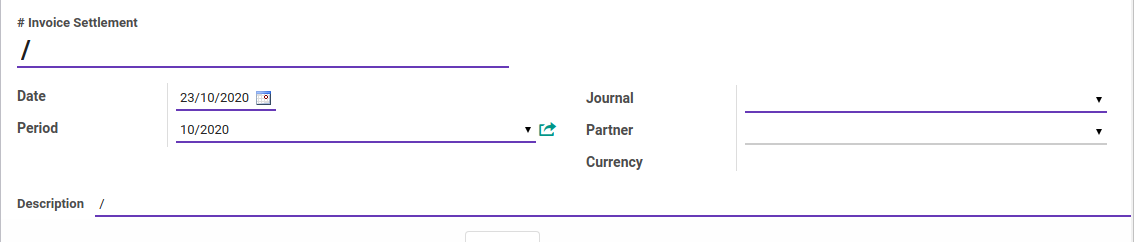
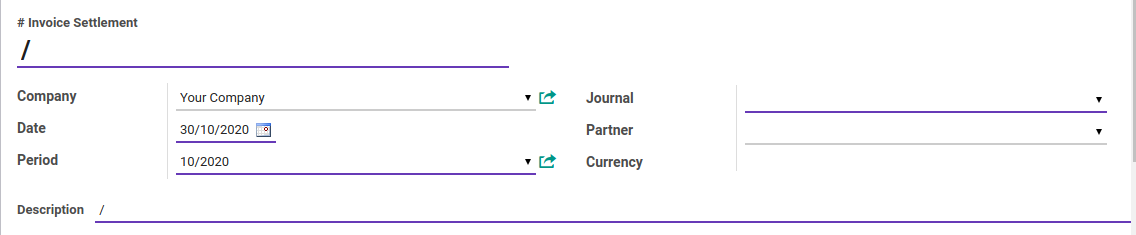
Invoice Settlement Revisi Daftar Isi Revisi Penjelasan tambah field-company Task Persetujuan Task Membatalkan Task Mengkonfirmasi Task Membuat Task Memodifikasi Task Menghapus Task Merestart Task Proforma Task Posting

diff --git a/src/transaksi/invoice-settlement/post.md b/src/transaksi/invoice-settlement/post.md
@@ -1,1 +1,52 @@
 # Post Invoice Settlement
+
+## A. INPUT
+
+* Data *invoice settlement* yang akan di-*post* harus memiliki status **Ready To Process**, atau **Proforma**.
+
+![](../../img/invoice-settlement/status-ready-to-process.png)
+
+![](../../img/invoice-settlement/status-proforma.png)
+
+* User yang akan memposting harus memiliki akses untuk memposting *invoice settlement*.
+
+## B. LANGKAH KERJA
+
+1. Buka menu **Accounting -> Settlement -> Invoice Settlement**. Abaikan jika sudah berada pada menu yang dimaksud.
+2. Buka data *invoice settlement* yang akan di-*posting*. Abaikan jika data sudah dibuka.
+3. Klik tombol **Post** pada bagian atas-kiri form. Pop-up form berjudul **Post Voucher** akan muncul.
+
+![](../../img/invoice-settlement/tombol-post.png)
+
+
+4. Isi **Date** pada pop-up form **Post Voucher**
+
+![](../../img/invoice-settlement/pop-up-post-voucher.png)
+
+5. Klik tombol **Post** pada bagian bawah-kiri pop-up form **Post Voucher**
+
+![](../../img/invoice-settlement/tombol-post-voucher.png)
+
+## C. OUTPUT
+
+* Status dari *invoice settlement* akan berubah menjadi **Posted**
+
+![](../../img/invoice-settlement/status-posted.png)
+
+* Penjurnalan *invoice settlement* akan secara otomatis dibuat. Penjurnalan dapat dilihat pada tab **Accounting Information**. Isian **Accounting Entry** akan berisi journal entry yang dihasilkan. Sementara di bawah isian **Accounting Entry** akan memperlihatkan journal item dari penjurnalan *invoice settlement*.
+
+![](../../img/invoice-settlement/hasil-penjurnalan.png)
+
+* Penjurnalan *invoice settlement* akan mengikuti pedoman sebagai berikut:
+
+    * n buah *journal item* akan terbentuk dengan ketentuan sebagai berikut:
+
+        * n sama dengan jumlah *debit line*.
+        * Akun yang digunakan sama dengan isian **Account** pada tiap *debit line*
+        * *Debit line* dengan isian **Amount** yang bernilai positif akan didebit sejumlah nilai **Amount In Company Currency At Voucher Date**. *Debit line* dengan isian **Amount** yang bernilai negatif akan dikredit sejumlah nilai **Amount In Company Currency At Voucher Date**.
+
+    * m buah *journal item* akan terbentuk dengan ketentuan sebagai berikut:
+
+        * m sama dengan jumlah *credit line*.
+        * Akun yang digunakan sama dengan isian **Account** pada tiap *credit line*
+        * *Credit line* dengan isian **Amount** yang bernilai positif akan dikredit sejumlah nilai **Amount In Company Currency At Voucher Date**. *Credit line* dengan isian **Amount** yang bernilai negatif akan didebit sejumlah nilai **Amount In Company Currency At Voucher Date**.

diff --git a/src/transaksi/invoice-settlement/memodifikasi.md b/src/transaksi/invoice-settlement/memodifikasi.md
@@ -1,1 +1,32 @@
 # Memodifikasi Invoice Settlement
+
+## A. INPUT
+
+* Data invoice settlement yang akan dimodifikasi harus memiliki status **Draft**.
+
+![](../../img/invoice-settlement/status-draft.png)
+
+## B. LANGKAH KERJA
+
+1. Buka menu **Accounting -> Settlement -> Invoice Settlement**. Abaikan jika sudah berada pada menu yang dimaksud.
+2. Buka data invoice settlement yang akan dimodifikasi. Abaikan jika data sudah dibuka.
+3. Klik tombol **Edit** pada bagian atas-kiri form.
+
+![](../../img/invoice-settlement/tombol-edit.png)
+
+4. Ubah **[# Invoice Settlement](./penjelasan.md#field-name)** jika dibutuhkan. Wajib diisi.
+5. Ubah dan sesuaikan **[Company](./penjelasan.md#field-company)** jika dibutuhkan. Hanya terlihat pada implementasi multi-company. Wajib diisi.
+6. Pilih dan sesuaikan **[Date](./penjelasan.md#field-date)** jika dibutuhkan. Wajib diisi.
+7. Biarkan isian **[Period](./penjelasan.md#field-period)**.
+8. Pilih dan sesuaikan **[Journal](./penjelasan.md#field-journal)** jika dibutuhkan. Wajib diisi.
+9. Pilih dan sesuaikan **[Partner](./penjelasan.md#field-partner)** jika dibutuhkan. Tidak wajib diisi.
+10. Isi dan sesuaikan **[Exchange Rate](./penjelasan.md#field-exchange-rate)**. Wajib diisi.
+11. <a name="langkah-11">Untuk</a> setiap *supplier invoice* yang akan di-*settle*, [import](./import-debit-line.md)/[modifikasi](./memodifikasi-debit-line.md)/[hapus](./menghapus-debit-line.md) debit lines. Ulangi langkah ini sampai **Debit Lines** sesuai dengan keinginan.
+12. <a name="langkah-12">Untuk</a> setiap *customer invoice* yang akan di-*settle*, [import](./import-credit-line.md)/[modifikasi](./memodifikasi-credit-line.md)/[hapus](./menghapus-credit-line.md) credit lines. Ulangi langkah ini sampai **Credit Lines** sesuai dengan keinginan.
+13. <a name="langkah-13">Klik</a> tombol **Save** pada bagian atas-kiri form.
+
+![](../../img/invoice-settlement/tombol-edit-save.png)
+
+## C. OUTPUT
+
+* Data invoice settlement akan berubah sesuai dengan perubahan yang dilakukan.

diff --git a/src/transaksi/invoice-settlement/membuat.md b/src/transaksi/invoice-settlement/membuat.md
@@ -1,1 +1,29 @@
 # Membuat Invoice Settlement
+
+## A. INPUT
+
+*(Tidak ada instruksi khusus)*
+
+## B. LANGKAH KERJA
+
+1. Buka menu **Accounting -> Settlement -> Invoice Settlement**
+2. Klik tombol **Create** pada bagian atas-kiri form.
+
+![](../../img/invoice-settlement/tombol-create.png)
+
+3. Ubah **[# Invoice Settlement](./penjelasan.md#field-name)** dengan penomeran yang dikehendaki. Biarkan berisi **/** apabila menghendaki penomeran otomatis.
+4. Ubah **[Company](./penjelasan.md#field-company)** jika dibutuhkan. Hanya terlihat pada implementasi multi-company. Wajib diisi.
+5. Pilih **[Date](./penjelasan.md#field-date)**. Wajib diisi.
+6. Biarkan isian **[Period](./penjelasan.md#field-period)**.
+7. Pilih **[Journal](./penjelasan.md#field-journal)**. Wajib diisi.
+8. Pilih **[Partner](./penjelasan.md#field-partner)** Tidak wajib diisi.
+9. Isi **[Exchange Rate](./penjelasan.md#field-exchange-rate)**. Wajib diisi.
+10. <a name="langkah-10">Untuk</a> setiap *supplier invoice* yang akan di-*settle*, [import](./import-debit-line.md)/[modifikasi](./memodifikasi-debit-line.md)/[hapus](./menghapus-debit-line.md) debit lines. Ulangi langkah ini sampai **Debit Lines** sesuai dengan keinginan.
+11. <a name="langkah-11">Untuk</a> setiap *customer invoice* yang akan di-*settle*, [import](./import-credit-line.md)/[modifikasi](./memodifikasi-credit-line.md)/[hapus](./menghapus-credit-line.md) credit lines. Ulangi langkah ini sampai **Credit Lines** sesuai dengan keinginan.
+12. <a name="langkah-12">Klik</a> tombol **Save** pada bagian atas-kiri form.
+
+![](../../img/invoice-settlement/tombol-save.png)
+
+## C. OUTPUT
+
+*(Tidak ada instruksi khusus)*

diff --git a/src/transaksi/invoice-settlement/batal.md b/src/transaksi/invoice-settlement/batal.md
@@ -1,1 +1,41 @@
 # Membatalkan Invoice Settlement
+
+## A. INPUT
+
+* Data *invoice settlement* yang akan dibatalkan dapat memiliki status **Draft**, atau **Waiting for Approval**, atau **Ready To Process**, atau **Proforma**, atau **Posted**
+
+![](../../img/invoice-settlement/status-draft-posted.png)
+
+* User yang akan membatalkan harus memiliki akses untuk membatalkan *invoice settlement*.
+
+## B. LANGKAH KERJA
+
+1. Buka menu **Accounting -> Settlement -> Invoice Settlement**. Abaikan jika sudah berada pada menu yang dimaksud.
+2. Buka data *invoice settlement* yang akan dibatalkan. Abaikan jika data sudah dibuka.
+3. Klik tombol **Cancel** pada bagian atas-kiri form.
+
+![](../../img/invoice-settlement/tombol-cancel.png)
+
+4. Klik tombol **Ok** pada *pop-up* konfirmasi pembatalan yang muncul.
+
+![](../../img/invoice-settlement/pop-up-konfirmasi-cancel.png)
+
+5. Pilih **Reason** pada *pop-up* **Cancellation Reason** yang muncul.
+
+![](../../img/invoice-settlement/pilihan-cancellation-reason.png)
+
+6. Klik tombol **Confirm** pada *pop-up* Cancellation Reason.
+
+![](../../img/invoice-settlement/tombol-confirm-cancel-reason.png)
+
+7. Klik tombol **Ok** pada *pop-up* konfirmasi pembatalan yang muncul.
+
+![](../../img/invoice-settlement/tombol-ok-confirm-cancel.png)
+
+## C. OUTPUT
+
+* Status dari *invoice settlement* akan berubah menjadi **Cancel**
+
+![](../../img/invoice-settlement/status-cancel.png)
+
+* Penjurnalan yang dihasilkan akan dihapus.

diff --git a/src/transaksi/invoice-settlement.md b/src/transaksi/invoice-settlement.md
@@ -6,7 +6,15 @@
 - [Membuat Invoice Settlement](./invoice-settlement/membuat.md)
 - [Memodifikasi Invoice Settlement](./invoice-settlement/memodifikasi.md)
 - [Menghapus Invoice Settlement](./invoice-settlement/menghapus.md)
-- Mengkonfirmasi Invoice Settlement
+- [Import Debit Line Invoice Settlement](./invoice-settlement/import-debit-line.md)
+- Membuat Debit Line Invoice Settlement
+- [Memodifikasi Debit Line Invoice Settlement](./invoice-settlement/memodifikasi-debit-line.md)
+- [Menghapus Debit Line Invoice Settlement](./invoice-settlement/menghapus-debit-line.md)
+- [Import Credit Line Invoice Settlement](./invoice-settlement/import-credit-line.md)
+- Membuat Credit Line Invoice Settlement
+- [Memodifikasi Credit Line Invoice Settlement](./invoice-settlement/memodifikasi-credit-line.md)
+- [Menghapus Credit Line Invoice Settlement](./invoice-settlement/menghapus-credit-line.md)
+- [Menkonfirmasi Invoice Settlement](./invoice-settlement/mengkonfirmasi.md)
 - [Menyetujui Invoice Settlement](./invoice-settlement/approve.md)
 - Menolak Invoice Settlement
 - Merestart Persetujuan Invoice Settlement

diff --git a/src/transaksi/invoice-settlement/konfirmasi.md b/src/transaksi/invoice-settlement/konfirmasi.md
@@ -1,1 +1,25 @@
-# Mengkonfirmasi Sale Refund Settlement
+# Mengkonfirmasi Invoice Settlement
+
+## A. INPUT
+
+* Data *invoice settlement* yang akan dikonfirmasi harus memiliki status **Draft**.
+
+![](../../img/invoice-settlement/status-draft.png)
+
+* User yang akan mengkonfirmasi harus memiliki akses untuk mengkonfirmasi *invoice settlement*.
+
+## B. LANGKAH KERJA
+
+1. Buka menu **Accounting -> Settlement -> Invoice Settlement**. Abaikan jika sudah berada pada menu yang dimaksud.
+2. Buka data *invoice settlement* yang akan dikonfirmasi. Abaikan jika data sudah dibuka.
+3. Klik tombol **Confirm** pada bagian atas-kiri form.
+
+![](../../img/invoice-settlement/tombol-confirm.png)
+
+## C. OUTPUT
+
+* Status dari *invoice settlement* akan berubah menjadi **Waiting for Approval**
+
+![](../../img/invoice-settlement/status-waiting-for-approval.png)
+
+* Isian *invoice settlement* sudah tidak bisa diubah.

diff --git a/src/transaksi/invoice-settlement/menghapus.md b/src/transaksi/invoice-settlement/menghapus.md
@@ -1,1 +1,27 @@
 # Menghapus Invoice Settlement
+
+## A. INPUT
+
+* Data invoice settlement yang akan dihapus harus memiliki status **Draft**.
+
+![](../../img/invoice-settlement/status-draft.png)
+
+## B. LANGKAH KERJA
+
+1. Buka menu **Accounting -> Settlement -> Invoice Settlement**. Abaikan jika sudah berada pada menu yang dimaksud.
+2. Buka data invoice settlement yang akan dihapus. Abaikan jika data sudah dibuka.
+3. Klik tombol **More** pada bagian atas-tengah form.
+
+![](../../img/invoice-settlement/tombol-more.png)
+
+4. Klik tombol **Delete** pada drop-down yang muncul pada tombol **More**.
+
+![](../../img/invoice-settlement/tombol-more-delete.png)
+
+5. Klik tombol **Ok** pada dialog konfirmasi penghapusan yang muncul.
+
+![](../../img/invoice-settlement/pop-up-konfirmasi-delete.png)
+
+## C. OUTPUT
+
+* Data invoice settlement akan terhapus.

diff --git a/src/transaksi/invoice-settlement/restart.md b/src/transaksi/invoice-settlement/restart.md
@@ -1,1 +1,25 @@
 # Merestart Invoice Settlement
+
+## A. INPUT
+
+* Data *invoice settlement* yang akan direstart harus memiliki status **Cancel**.
+
+![](../../img/invoice-settlement/status-cancel.png)
+
+* User yang akan merestart harus memiliki akses untuk merestart *invoice settlement*.
+
+## B. LANGKAH KERJA
+
+1. Buka menu **Accounting -> Settlement -> Invoice Settlement**. Abaikan jika sudah berada pada menu yang dimaksud.
+2. Buka data *invoice settlement* yang akan di-*restart*. Abaikan jika data sudah dibuka.
+3. Klik tombol **Reset to Draft** pada bagian atas-kiri form.
+
+![](../../img/invoice-settlement/tombol-restart.png)
+
+## C. OUTPUT
+
+* Status dari *invoice settlement* akan berubah menjadi **Draft**
+
+![](../../img/invoice-settlement/status-draft.png)
+
+* Isian *invoice settlement* dapat diubah.

diff --git a/src/transaksi/invoice-settlement/approve.md b/src/transaksi/invoice-settlement/approve.md
@@ -1,1 +1,23 @@
 # Menyetujui Invoice Settlement
+
+## A. INPUT
+
+* Data *invoice settlement* yang akan disetujui harus memiliki status **Waiting for Approval**.
+
+![](../../img/invoice-settlement/status-waiting-for-approval.png)
+
+* User yang akan menyetujui harus memiliki akses untuk menyetujui *invoice settlement*.
+
+## B. LANGKAH KERJA
+
+1. Buka menu **Accounting -> Settlement -> invoice Settlement**. Abaikan jika sudah berada pada menu yang dimaksud.
+2. Buka data *invoice settlement* yang akan disetujui. Abaikan jika data sudah dibuka.
+3. Klik tombol **Validate** pada bagian atas-kiri form.
+
+![](../../img/invoice-settlement/tombol-validate.png)
+
+## C. OUTPUT
+
+* Status dari *invoice settlement* akan berubah menjadi **Ready To Process**
+
+![](../../img/invoice-settlement/status-ready-to-process.png)

diff --git a/src/transaksi/invoice-settlement/proforma.md b/src/transaksi/invoice-settlement/proforma.md
@@ -1,1 +1,23 @@
 # Proforma Invoice Settlement
+
+## A. INPUT
+
+* Data *invoice settlement* yang akan dijadikan proforma harus memiliki status **Ready To Process**.
+
+![](../../img/invoice-settlement/status-ready-to-process.png)
+
+* User yang akan mengkonfirmasi harus memiliki akses untuk menjadikan proforma *invoice settlement*.
+
+## B. LANGKAH KERJA
+
+1. Buka menu **Accounting -> Settlement -> Invoice Settlement**. Abaikan jika sudah berada pada menu yang dimaksud.
+2. Buka data *invoice settlement* yang akan di-*proforma*. Abaikan jika data sudah dibuka.
+3. Klik tombol **Proforma** pada bagian atas-kiri form.
+
+![](../../img/invoice-settlement/tombol-proforma.png)
+
+## C. OUTPUT
+
+* Status dari *invoice settlement* akan berubah menjadi **Proforma**
+
+![](../../img/invoice-settlement/status-proforma.png)

diff --git a/src/transaksi/invoice-settlement/penjelasan.md b/src/transaksi/invoice-settlement/penjelasan.md
@@ -20,6 +20,10 @@ Informasi pada *Invoice Settlement* dibagi menjadi beberapa area, diantaranya:
 
 Nomor dokumen *invoice settlement*.
 
+#### <a name="field-company">Company</a>
+
+Perusahaan pemilik dokumen *invoice settlement*
+
 #### <a name="field-date">Date</a>
 
 Tanggal transaksi.
